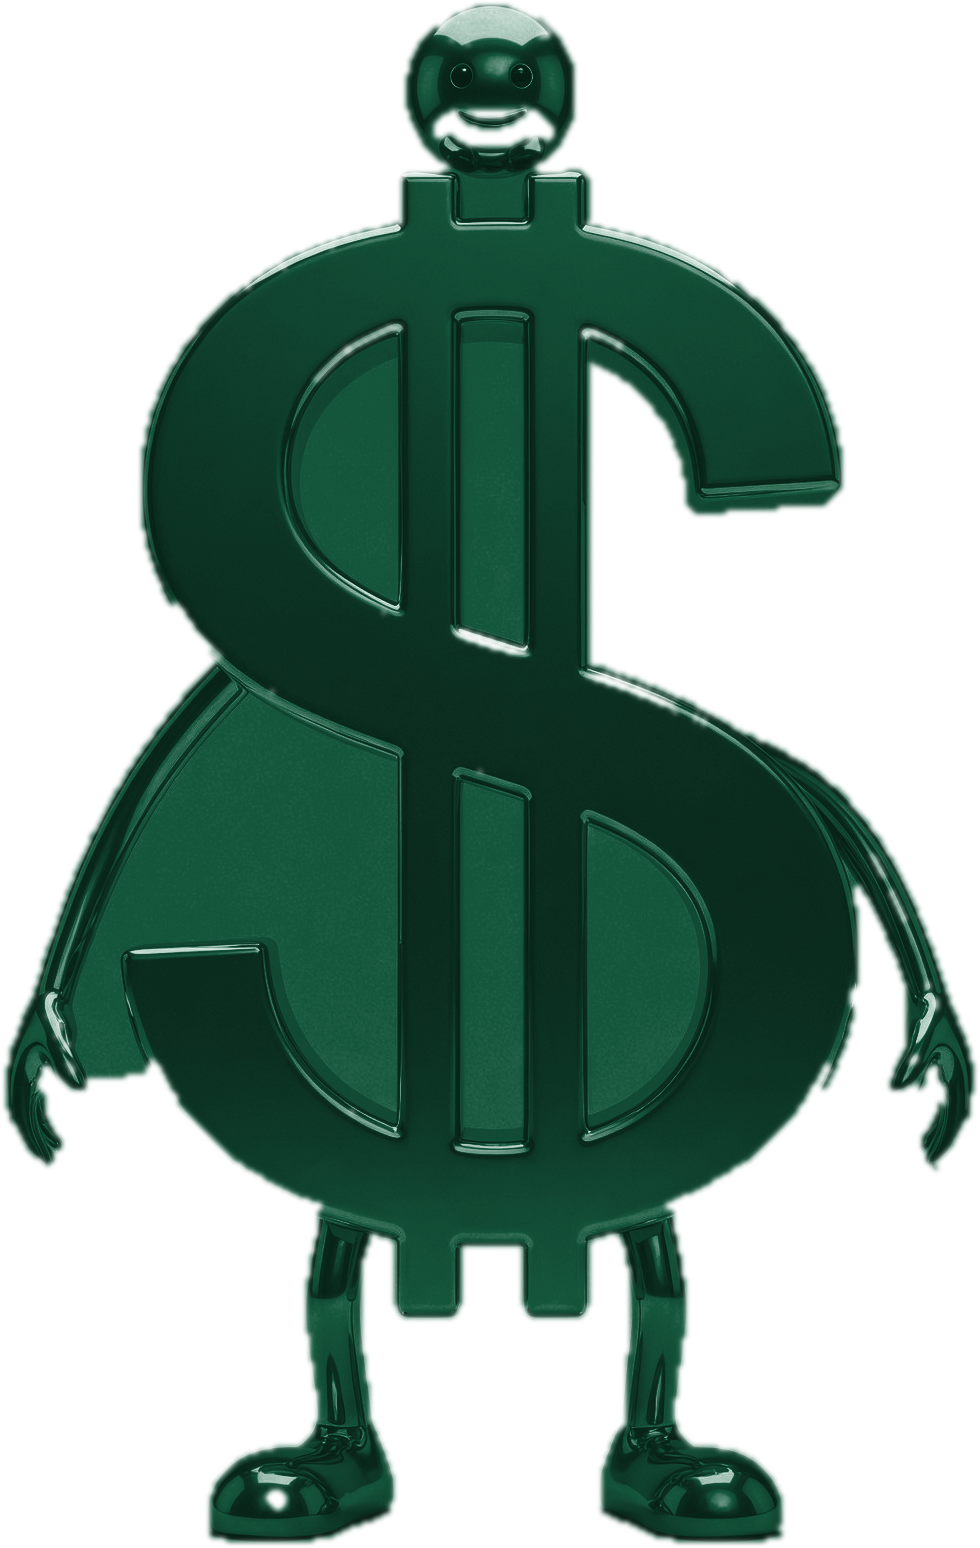
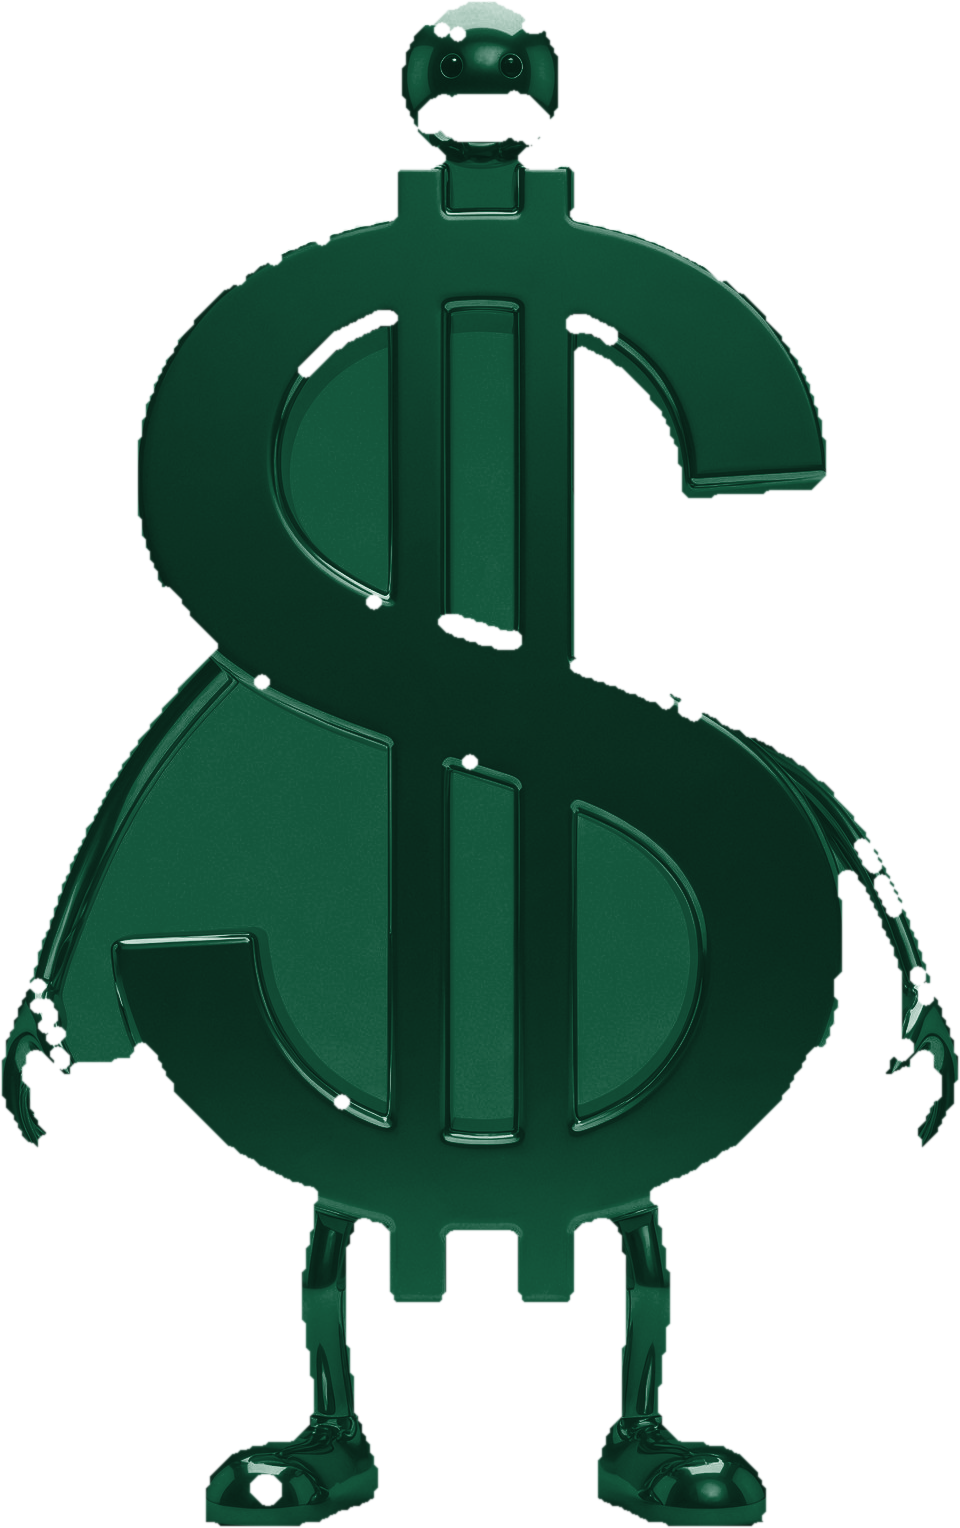
Add branded green $ mascot (tight matte, no halo), composite every slide; remove ? overlay

diff --git a/video_generator.py b/video_generator.py
@@ -2423,9 +2423,8 @@ def prep_infographic_slides(images, slides, work_dir, landscape=False,
             card_x = (W - card_w) // 2
             _paste_card(card_x, card_top, card_w, card_h, img_src)
 
-        # Mascot — right below the card(s). Fixed green $ character for brand
-        # consistency; on the differentiation slide a "?" floats above its
-        # head, echoing the "wait, what's the difference?" beat.
+        # Mascot — right below the card(s). Fixed green $ character composited
+        # every slide for consistent branding.
         mascot_top = card_top + card_h + 70
         is_last = (idx == len(slides) - 1)
         is_first = (idx == 0)
@@ -2436,10 +2435,6 @@ def prep_infographic_slides(images, slides, work_dir, landscape=False,
             mx = (W - mw) // 2
             bg.paste(m_resized, (mx, mascot_top), m_resized)
             mascot_bottom = mascot_top + target_h
-            if is_diff_slide:
-                qf = get_font(96)
-                qb = draw.textbbox((0, 0), "?", font=qf)
-                draw.text((W // 2 - (qb[2] - qb[0]) // 2, mascot_top - 78), "?", font=qf, fill=ACCENT)
         else:
             if side == 'A':
                 point_left = True
